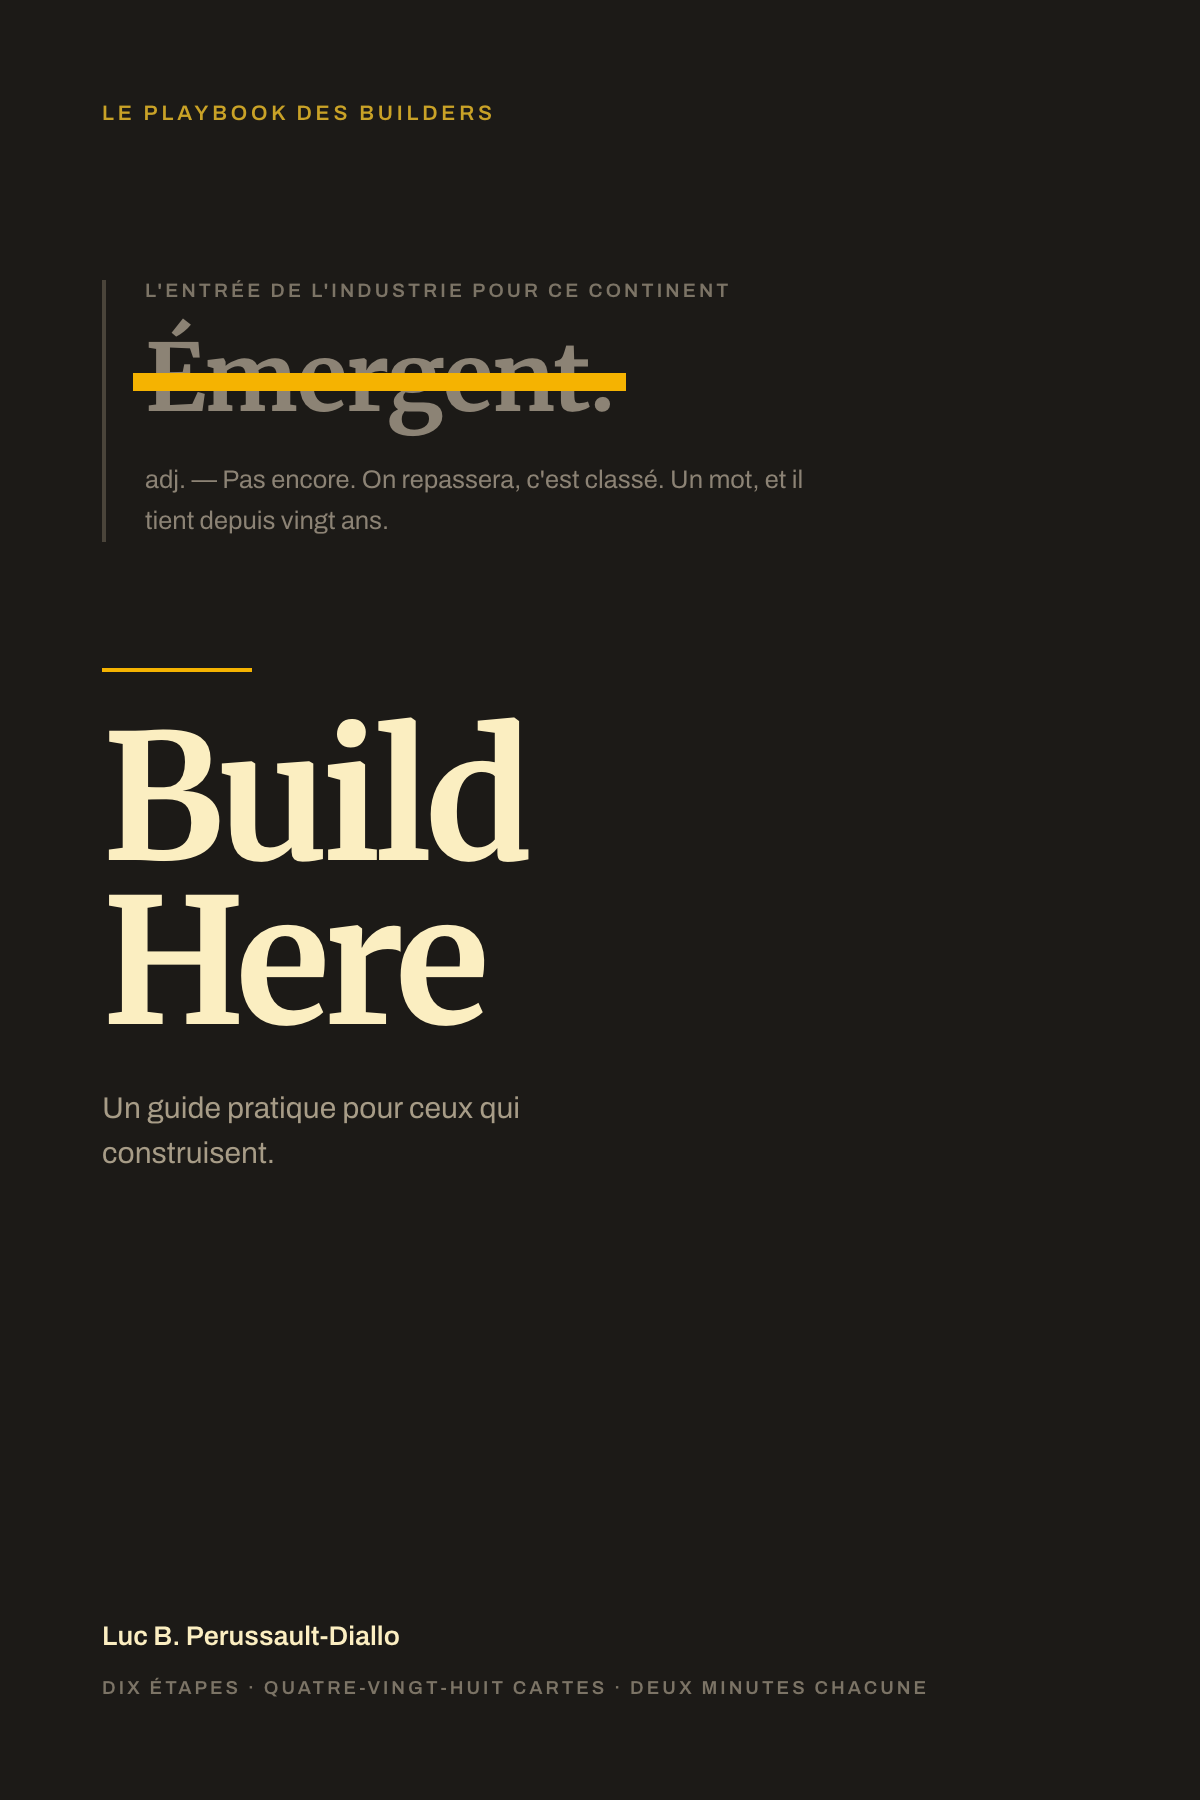
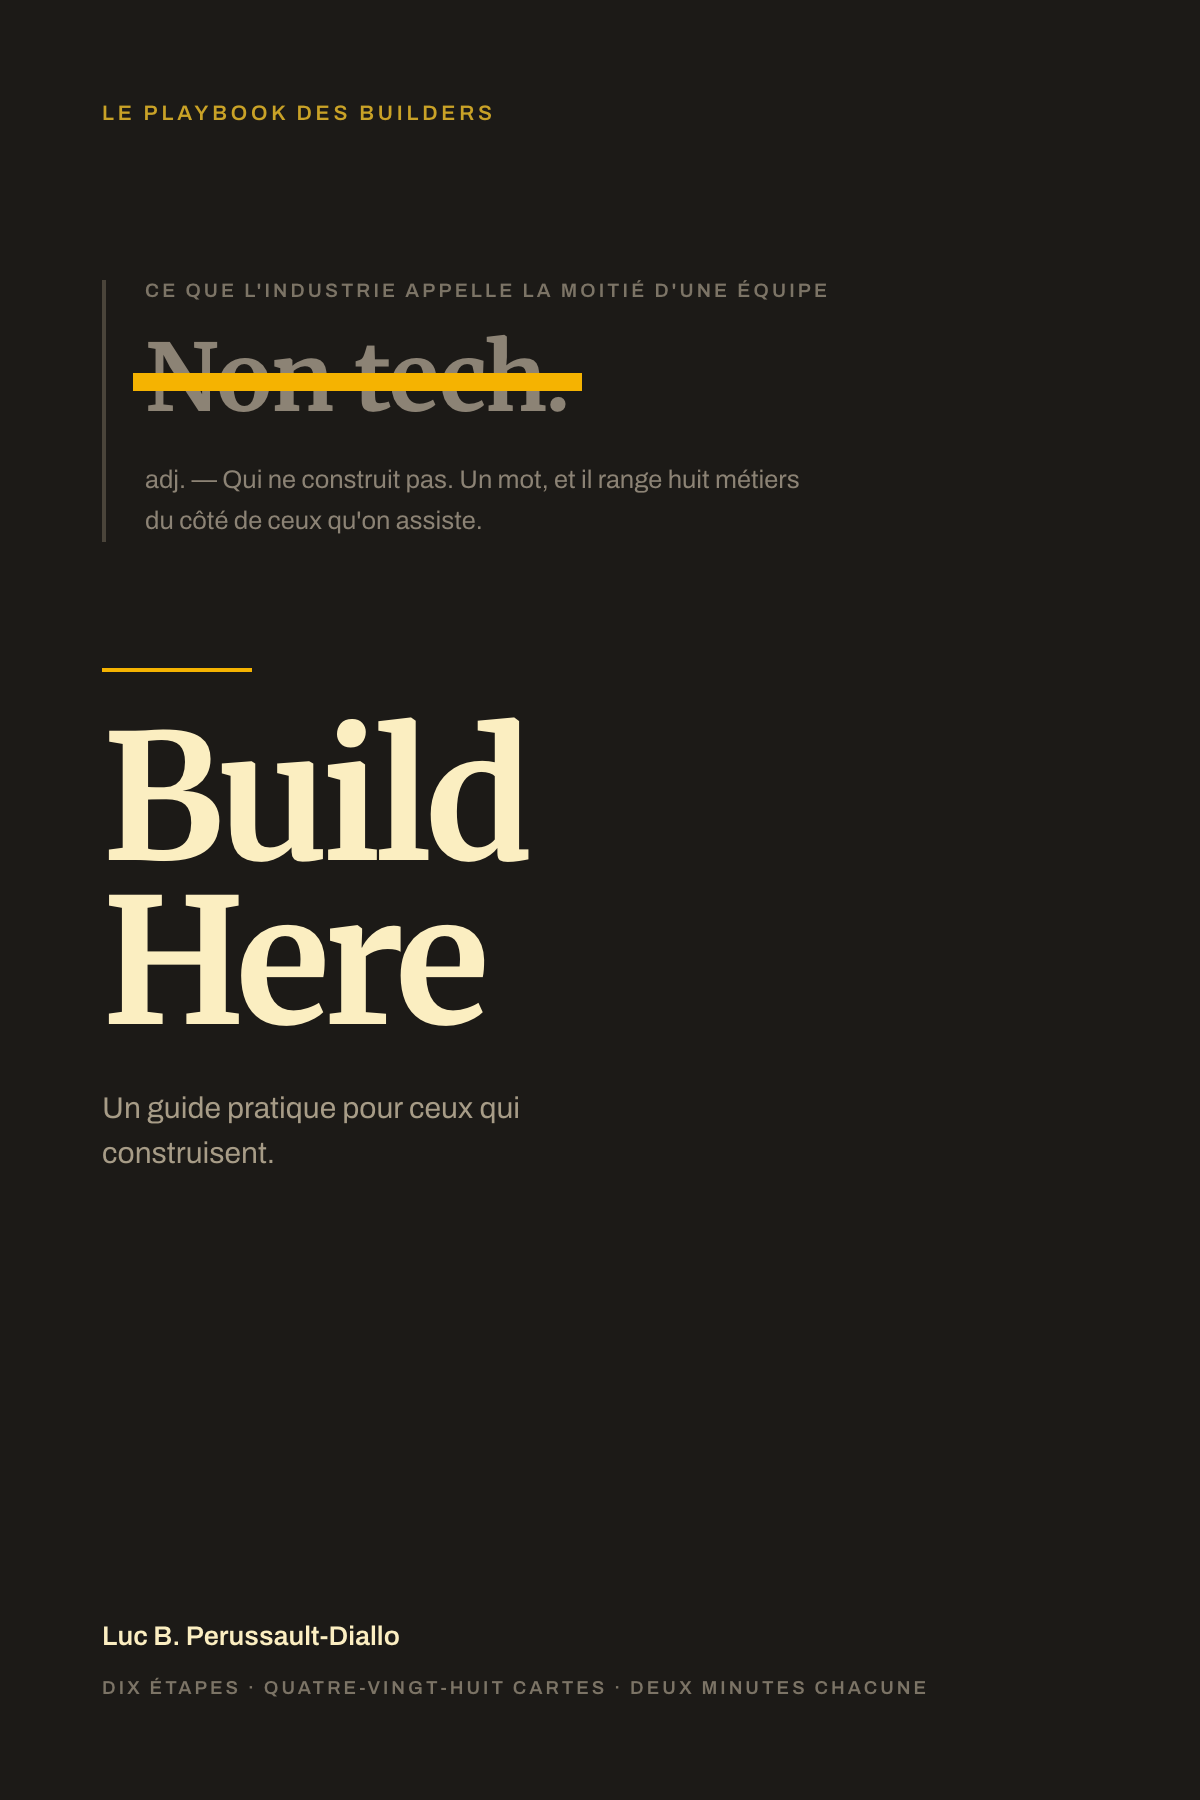
feat(couverture): « Non tech. » remplace « Émergent. »
L'entrée barrée visait le mot que l'industrie colle au continent. Le livre
ne parle plus de continent, donc elle ne rayait plus rien.

Elle vise maintenant le mot que l'industrie colle à la moitié d'une
équipe, ce qui est l'erreur que tout ce livre corrige : un builder n'est
pas celui qui écrit du logiciel.

« Non tech. » est aussi la formule qu'on entend réellement, et elle tient
dans la colonne étroite de l'image de partage, ce que « Non technique. »
ne faisait pas.

Les deux images sont régénérées.

Changed region(s): [[0.1233, 0.1556, 0.6783, 0.3111], [0.6167, 0.1556, 0.6475, 0.1867]]

diff --git a/_cover/cover.html b/_cover/cover.html
@@ -27,9 +27,9 @@
   <div>
     <div class="kick">Le playbook des builders</div>
     <div class="entry">
-      <div class="src">L'entrée de l'industrie pour ce continent</div>
-      <div class="struck">Émergent.<span class="bar"></span></div>
-      <div class="def">adj. — Pas encore. On repassera, c'est classé. Un mot, et il tient depuis vingt ans.</div>
+      <div class="src">Ce que l'industrie appelle la moitié d'une équipe</div>
+      <div class="struck">Non tech.<span class="bar"></span></div>
+      <div class="def">adj. — Qui ne construit pas. Un mot, et il range huit métiers du côté de ceux qu'on assiste.</div>
     </div>
     <div class="rule"></div>
     <div class="title">Build<br>Here</div>

diff --git a/_cover/og.html b/_cover/og.html
@@ -31,9 +31,9 @@
     <div class="author">Luc B. Perussault-Diallo</div>
   </div>
   <div class="right">
-    <div class="src">L'entrée de l'industrie pour ce continent</div>
-    <div class="struck">Émergent.<span class="bar"></span></div>
-    <div class="def">adj. — Pas encore. On repassera, c'est classé. Un mot, et il tient depuis vingt ans.</div>
+    <div class="src">Ce que l'industrie appelle la moitié d'une équipe</div>
+    <div class="struck">Non tech.<span class="bar"></span></div>
+    <div class="def">adj. — Qui ne construit pas. Un mot, et il range huit métiers du côté de ceux qu'on assiste.</div>
   </div>
 </div>
 </body></html>
